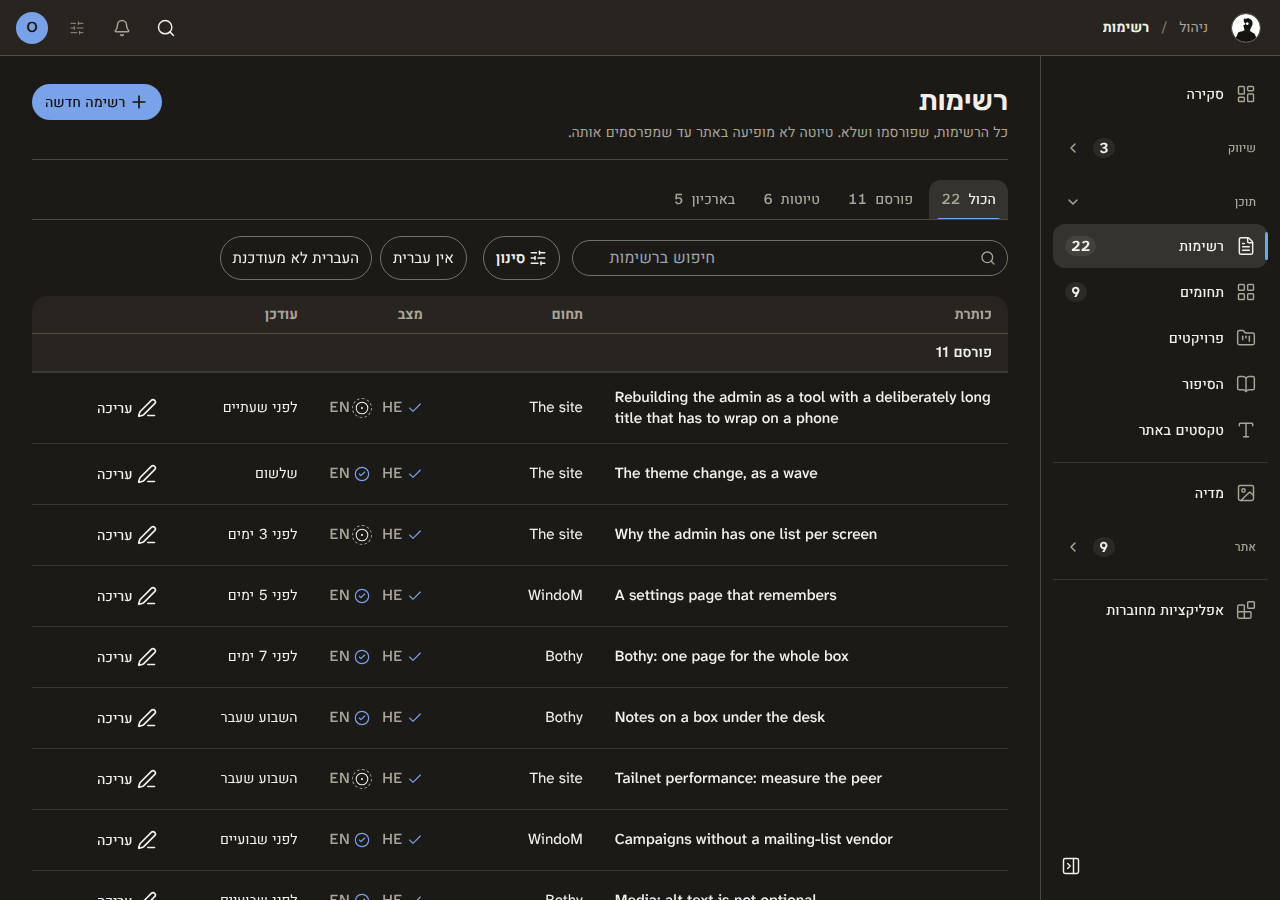
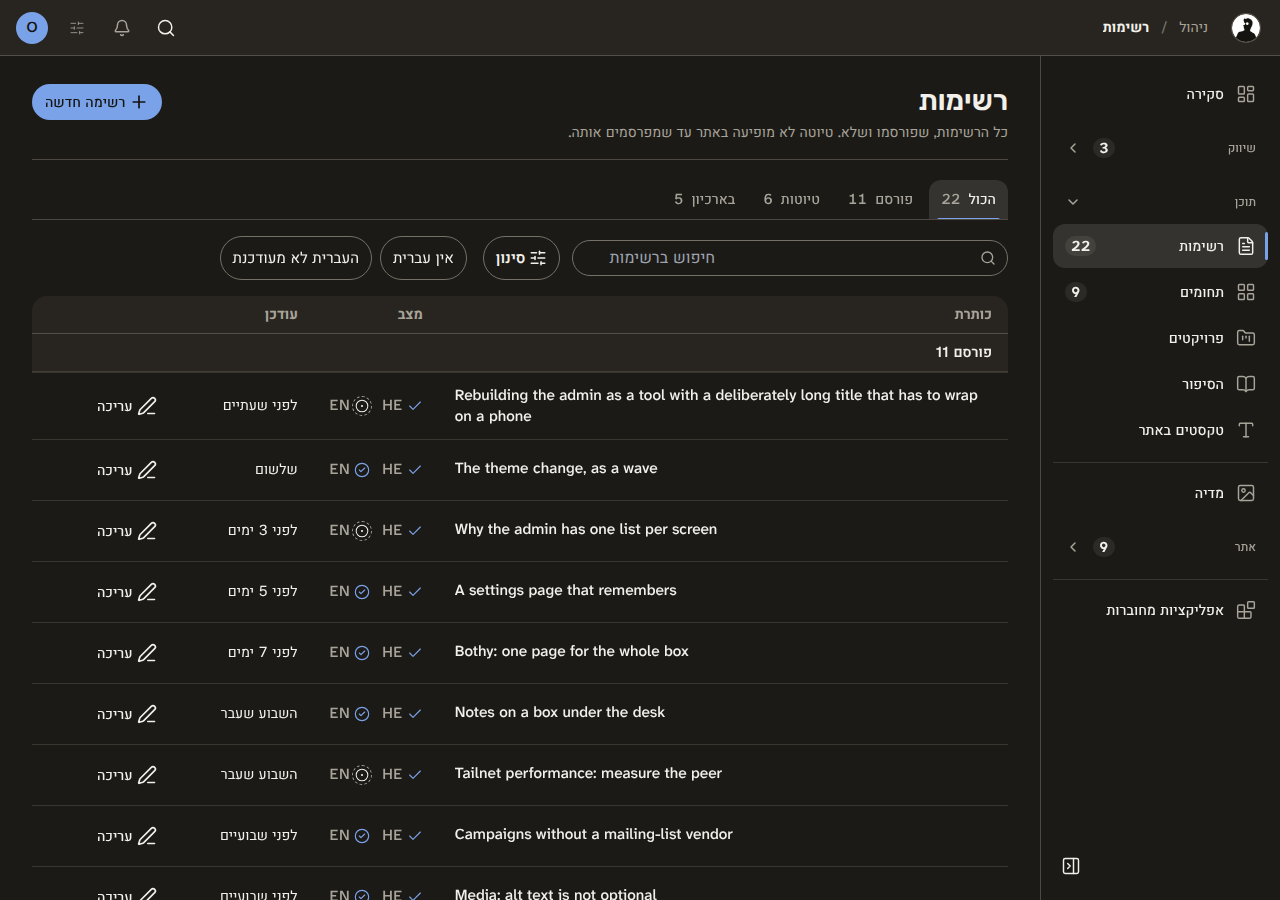
Admin S6: clamp the post title to two lines, area column from lg (#846)
Claude-Session: https://claude.ai/code/session_013rV123XfZGHGiHaRnzMqnR

diff --git a/web/src/components/admin/posts/PostsDesktop.tsx b/web/src/components/admin/posts/PostsDesktop.tsx
@@ -150,12 +150,12 @@ export default function PostsDesktop() {
       header: w.colTitle,
       primary: true,
       cell: (x) => (
-        <Link to={`/admin/posts/${x.slug}`} className={styles.title}>
+        <Link to={`/admin/posts/${x.slug}`} className={`${styles.title} a-clamp-2`} title={titleOf(x.title, x.slug)}>
           {titleOf(x.title, x.slug)}
         </Link>
       ),
     },
-    { id: "area", header: w.colArea, hideBelow: "md", width: "10rem", cell: (x) => areaTitle(x.collection) },
+    { id: "area", header: w.colArea, hideBelow: "lg", width: "10rem", cell: (x) => areaTitle(x.collection) },
     {
       id: "lang",
       header: w.colStatus,

diff --git a/web/src/components/admin/posts/posts.module.css b/web/src/components/admin/posts/posts.module.css
@@ -24,9 +24,6 @@
 }
 
 .title {
-  display: block;
-  min-block-size: 1.5rem; /* a 24px target (WCAG 2.5.8) at every width */
-  padding-block: 0.125rem;
   color: inherit;
   text-decoration: none;
 }
